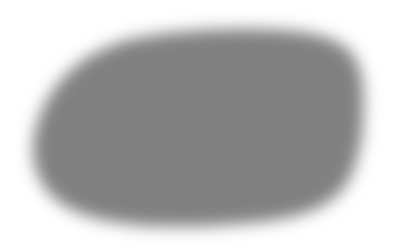
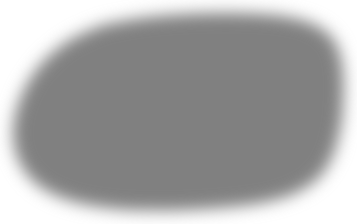
Fix shooting trigger responsiveness and adjust HUD asset dimensions and padding

Changed region(s): [[0.0, 0.0, 0.986, 0.9688]]

diff --git a/style.css b/style.css
@@ -234,14 +234,14 @@ body.game-playing #game-container {
   top: 14px;
   left: 50%;
   transform: translateX(-50%) scale(0.95);
-  width: min(720px, 60vw);
-  height: clamp(38px, 3.8vw, 48px);
+  width: min(440px, 50vw);
+  height: clamp(34px, 3.6vw, 42px);
   background: url('assets/ui/hud_relic_bg.png') center center / 100% 100% no-repeat;
   display: flex;
   align-items: center;
   justify-content: center;
   font-family: 'Caryn', 'Papyrus', cursive, serif;
-  font-size: clamp(16px, 1.8vw, 23px);
+  font-size: clamp(16px, 1.7vw, 22px);
   font-weight: normal;
   letter-spacing: 1.5px;
   color: #ffffff;
@@ -292,15 +292,16 @@ body.game-playing #game-container {
 /* Bottom-Left Status Readout (Feathered Grey Cloud) */
 .hud-status-left {
   position: absolute;
-  bottom: 20px;
-  left: 20px;
-  width: 242px;
-  height: 140px;
+  bottom: 24px;
+  left: 24px;
+  width: 236px;
+  height: 148px;
   background: url('assets/ui/hud_health_bg.png') center center / 100% 100% no-repeat;
   display: flex;
   flex-direction: column;
   justify-content: center;
-  padding: 24px 34px 18px 34px;
+  padding: 22px 30px 18px 30px;
+  box-sizing: border-box;
   pointer-events: none;
   z-index: 15;
 }
@@ -319,7 +320,7 @@ body.game-playing #game-container {
 
 .hud-status-left .hud-label {
   font-family: 'Caryn', 'Papyrus', cursive, serif;
-  font-size: 20px;
+  font-size: 21px;
   font-weight: normal;
   letter-spacing: 1.5px;
   color: #ffffff;
@@ -328,11 +329,11 @@ body.game-playing #game-container {
 
 .hud-label-sprint {
   font-family: 'Caryn', 'Papyrus', cursive, serif;
-  font-size: 20px;
+  font-size: 21px;
   font-weight: normal;
   letter-spacing: 1.5px;
   color: #ffffff;
-  margin-top: 5px;
+  margin-top: 6px;
   line-height: 1;
 }
 
@@ -346,9 +347,9 @@ body.game-playing #game-container {
 
 .health-bar-bg {
   width: 100%;
-  height: 5px;
-  background: #242930;
-  border-radius: 2px;
+  height: 6px;
+  background: rgba(20, 24, 30, 0.7);
+  border-radius: 3px;
   overflow: hidden;
   margin-top: 3px;
   margin-bottom: 2px;
@@ -358,15 +359,15 @@ body.game-playing #game-container {
   width: 100%;
   height: 100%;
   background: #ff3b30;
-  border-radius: 2px;
+  border-radius: 3px;
   transition: width 0.12s ease-out;
 }
 
 .stamina-bar-bg {
   width: 100%;
-  height: 5px;
-  background: #242930;
-  border-radius: 2px;
+  height: 6px;
+  background: rgba(20, 24, 30, 0.7);
+  border-radius: 3px;
   overflow: hidden;
   margin-top: 3px;
 }
@@ -375,22 +376,24 @@ body.game-playing #game-container {
   width: 100%;
   height: 100%;
   background: #38bdf8;
-  border-radius: 2px;
+  border-radius: 3px;
   transition: width 0.08s linear;
 }
 
 /* Bottom-Right Ammo Readout (Feathered Black Oval) */
 .hud-status-right {
   position: absolute;
-  bottom: 20px;
-  right: 20px;
-  width: 242px;
-  height: 140px;
+  bottom: 24px;
+  right: 24px;
+  width: 236px;
+  height: 100px;
   background: url('assets/ui/hud_ammo_bg.png') center center / 100% 100% no-repeat;
   display: flex;
   flex-direction: column;
   align-items: center;
   justify-content: center;
+  padding: 12px 24px;
+  box-sizing: border-box;
   pointer-events: none;
   z-index: 15;
 }

diff --git a/index.html b/index.html
@@ -8,7 +8,7 @@
   <meta name="viewport" content="width=device-width, initial-scale=1.0">
   <title>The Museum v1</title>
   <link rel="icon" type="image/png" href="icon.png">
-  <link rel="stylesheet" href="style.css?v=531">
+  <link rel="stylesheet" href="style.css?v=532">
   <link rel="preconnect" href="https://fonts.googleapis.com">
   <link rel="preconnect" href="https://fonts.gstatic.com" crossorigin>
   <link href="https://fonts.googleapis.com/css2?family=Cinzel:wght@600;700;900&family=Inter:wght@400;500;600;700&display=swap" rel="stylesheet">
@@ -247,6 +247,6 @@
   <script src="libs/GLTFLoader.js"></script>
   <!-- Museum Game Engine -->
   <script src="text_loader.js?v=507"></script>
-  <script src="game.js?v=530"></script>
+  <script src="game.js?v=532"></script>
 </body>
 </html>

diff --git a/game.js b/game.js
@@ -6285,14 +6285,9 @@
 
       window.addEventListener('mousedown', (e) => {
         if (!this.gameStarted || this.isPaused || this.isGameOver || this.isVictory || this.isExaminingArt || this.isObjectiveModalOpen || this.isOptionsModalOpen || this.isSettingsModalOpen) return;
-        const wasLocked = this.isPointerLocked;
         this.requestNativeOrBrowserLock();
 
         if (e.button === 0) {
-          if (!wasLocked) {
-            // First click after unpause / window focus re-locks pointer without discharging the weapon
-            return;
-          }
           this.shootPistol();
         } else if (e.button === 2) {
           this.isAiming = true;
